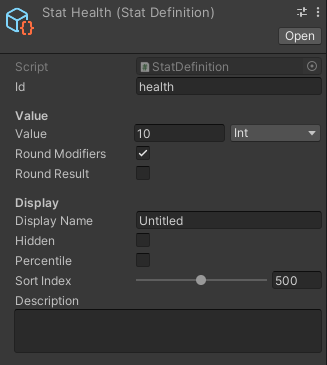
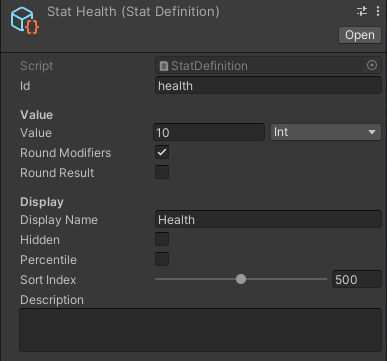
docs(readme): several tweaks and fixes based on running through the guides

diff --git a/README.md b/README.md
@@ -6,12 +6,12 @@ A Unity stats systems for JRPGs, action games, turn based, and any other genre y
 
 **Features**
 
-* Create all stats data with visual editors
+* Create and manage stats data with visual editors
 * Heavily optimized stat caching
 * Curve support to handle character level ups and upgrades
 * Quickly tweak and test stats adjustments in your games without additional programming (no more Excel Spreadsheets)
 * Implementation agnostic. Does not rely on MonoBehavior classes (implement however you want)
-* Bulk modify stats with stat modifiers. Visual objects that can be used for equipment, status effects, ect.* Combine stats definitions with groups. Players, enemies, and physical objects can all share health, defense, ect. But have their own unique stats
+* Bulk modify stats with stat modifiers. Visual objects that can be used for equipment, status effects, ect
 
 **Support**
 
@@ -21,7 +21,7 @@ See upcoming features and development progress on the [Trello Board](https://tre
 
 ## Quickstart
 
-You'll need to [install](#installation) the package first before you can run any of the following. That said here is a quick rundown of how Fluid Stats works. Please note all of the creation commands can be found by right clicking the project windows and going to Create -> Fluid -> Stats.
+You'll need to [install](#installation) the package first before you can run any of the following. That said here is a quick rundown of how Fluid Stats works. Please note all of the following creation commands can be found by right clicking the project windows and going to **"Create -> Fluid -> Stats"**.
 
 1. Create a settings object and place it in a "Resources" folder
 1. Generate as many definitions as you want
@@ -59,7 +59,28 @@ public class CharacterHealthStat : MonoBehaviour {
 }
 ```
 
-For a more in-depth explanation on Fluid Stats see the [guides](#getting-started-guides). They contain in-depth walkthroughs on creating a stats system from scratch.
+For a more in-depth explanation on Fluid Stats see the [guides](#getting-started-guides). They contain a complete walkthrough on creating your own stats from scratch with Fluid Stats.
+
+### Installation
+
+Fluid Stats is used through [Unity's Package Manager](https://docs.unity3d.com/Manual/CustomPackages.html). In order to use it you'll need to add the following lines to your `Packages/manifest.json` file. After that you'll be able to visually control what specific version of Fluid Stats you're using from the package manager window in Unity. This has to be done so your Unity editor can connect to NPM's package registry.
+
+```json
+{
+  "scopedRegistries": [
+    {
+      "name": "NPM",
+      "url": "https://registry.npmjs.org",
+      "scopes": [
+        "com.fluid"
+      ]
+    }
+  ],
+  "dependencies": {
+    "com.fluid.stats": "1.0.0"
+  }
+}
+```
 
 ## Table of Contents
 
@@ -73,7 +94,6 @@ For a more in-depth explanation on Fluid Stats see the [guides](#getting-started
     - [Event Subscriptions](#event-subscriptions)
     - [Adjusting Modifiers](#adjusting-modifiers)
     - [Order of Operations](#order-of-operations)
-    + [Installation](#installation)
 * [Releases](#releases)
 * [Nightly Builds](#nightly-builds)
 * [Development Environment](#development-environment)
@@ -84,33 +104,38 @@ For a more in-depth explanation on Fluid Stats see the [guides](#getting-started
 
 ### Your First Health Bar
 
-Let's create a health bar that will display a players total health. Then reduce it when a button is clicked. This will walk you through the core fundamental basics of how Fluid Stats works. When you're done you should be able to setup all of your stat buckets on your own.
+Let's create a health bar that will display a players total health. Then reduce it when a button is clicked. This will walk you through the core fundamentals of how Fluid Stats works. When you're done you should be able to setup your remaining stats on your own.
 
-Before we start, let's generate a settings object. This will prevent console errors and warnings.
+#### Initial Setup
 
-1. Right click on the project window and go to "Create -> Fluid -> Stats -> Settings"
+First off open up Unity and create a new project (2020 or newer recommended). Then run through the steps listed in the [installation](#installation). When you're done come back here.
+
+With the package installed you'll need a StatsSettings object. This will prevent console errors and warnings.
+
+1. Right click on the project window and go to "Create -> Fluid -> Stats -> Settings -> Default"
 1. Keep the name and place it inside a "Resources" folder. Example `Resources/StatsSettings`
 
-With settings taken care of we can now move onto stat definitions.
+With settings taken care of we can now move onto creating your definition for the health stat.
 
 #### Health Stat Definition
 
 To get started you need to create a health definition that details how the health stat works. Definitions contain value types (int, float, int curve, float curve), how to handle modifiers (such as rounding), and other details.
 
-Create your first definition. Then we'll adjust a few things to customize it.
+Create your first definition with the details below. Then we'll adjust a few things to customize it.
 
 1. Right click on the project window and go to "Create -> Fluid -> Stats -> Definitions -> Default"
 1. Rename the created object "StatHealth" in the project window
 1. Set an `id` of "health" so you can retrieve the value at runtime (more on that later)
-1. Change `value` to 10 which will alter the default value when this stat is initialized
+1. Change the `value` to 10, which will alter the default value when this stat is created
+1. Change the `displayName` to "Health"
 
 ![Health stat](documentation/health-stat-definition.png)
 
-With the definition complete you'll have to store it where it in a collection. We'll cover that in collections next.
+With the definition complete you'll have to store it in a definition collection. We'll cover collections next.
 
 #### Stat Collections
 
-You need a way to attach the new health definition to a character. That's where definition collections come in. Think of collections as buckets of stats that can be shared throughout your game. For example characters might have a large number of combat stats while a door might only have health.
+The health definition is useless unless we can attach it to a character. That's where definition collections come in. Think of collections as buckets of stats that can be shared throughout your game. For example characters might have a large number of combat stats while a door could just have health.
 
 To add the health definition to a collection you'll need to create one. Then add the new health stat to it.
 
@@ -124,9 +149,11 @@ Keep in mind you can add as many stats as you want here (such as defense, magic,
 
 #### Stats Containers
 
-With the collection you're going to need a way to compile it into usable runtime data. That's where the stats container comes in. Containers manage and house all your collections and handle runtime creation.
+Stat containers are where all the stats for a character are stored. They allow you to tweak various stats or revert to defaults. Most importantly they compile your definition collections and handle runtime creation.
 
-Make your character stats container with the following instructions. Then attach the previously created collection.
+Containers are a great way share stats among multiple characters. For example you could create a stats container just for goblins and share it among goblin instances. Since containers are a ScriptableObject they avoid many of the serialization issues that come with prefabs.
+
+Create your character stats container with the following instructions. Then attach the previously created collection.
 
 1. Right click on the project window and select "Create -> Fluid -> Stats -> Container"
 1. Rename the created object "SampleCharacterStats"
@@ -138,7 +165,7 @@ With the container taken care of let's head back to the settings file. It can ma
 
 #### Stats Settings File
 
-Remember that settings file we created at the beginning and placed in `Resources/StatsSettings`? It let's us override the order of operations and default stats shared among all containers. That in mind, we can move our default stats to the settings so all created characters automatically get a health stat. Personally I often use this to have special customized data for different NPCs and player characters.
+Remember that settings file we created at the beginning and placed in `Resources/StatsSettings`? It lets you override the stats shared among all containers. In short all stats added to the settings will appear on every character. Move your default stats to the settings so all created characters automatically get a health stat.
 
 Set the default stats to your "DefaultsStats" object and remove the old reference.
 
@@ -147,18 +174,21 @@ Set the default stats to your "DefaultsStats" object and remove the old referenc
 
 ![Stats Settings](documentation/stats-settings.png)
 
-With all your stats objects setup we can now move onto creating the health bar display.
+With all your stats setup we can now move onto creating the health bar display.
 
 #### The Health Bar
 
 To create a health bar you'll need a canvas with a slider and a script that updates the screen when health changes. First off create the canvas and slider UI elements.
 
 1. Create a new scene called "MyFirstHealthBar" and open it
+1. Switch to 2D mode (in the scene panel near the top left)
 1. Right click on the hierarchy window, then select "UI -> Canvas"
 1. Select the canvas in the hierarchy, then select "UI -> Slider" 
     1. Place the slider inside the canvas object
-    1. Set the slider to non interactive
+    1. Set the slider "interactable" checkbox to false
 1. Select the canvas again, then select "UI -> Button"
+    1. Place the button inside the canvas object
+    1. Align the button object so you can see it (might cover the slider)
     1. Change the button text to "Deal Damage"
     
 When all the steps are complete your scene should look something like this.
@@ -198,23 +228,23 @@ public class CharacterHealthStat : MonoBehaviour {
 }
 ```
 
-Lastly rig up the health bar to the new script. We're going to use the slider as a container for our health stats. Normally you'd want to store the health information in something like this [stats gauge microframework](https://github.com/ashblue/unity-gauges) that handles min and max values.
+Lastly rig up the health bar to the new script. We're going to use the slider as a container for our health stats. Please note, you'd want to store the health information in something like this [stats gauge microframework](https://github.com/ashblue/unity-gauges) that handles min and max values. But for now we're just going to use the slider for ease of this tutorial.
 
 1. Select the canvas object in the hierarchy
 1. Attach the `CharacterHealthStat` script
     1. Set the `buttonDealDamage` to the button you previously created
     1. Set the `healthBar` to the slider you previously created
-    1. Set the `originalStats` with "SampleCharacterStats" object. Do not add a `runtimeStats`, this field is automatically populated at runtime
+    1. Set the `originalStats` with "SampleCharacterStats" object. DO NOT add a `runtimeStats`, this field is automatically populated at runtime
 
-And that's it. Run the game and click the button to reduce the bar's fill by 1. If you're having trouble you can always clone this repo and open the example scene `MyFirstHealthBar.scene` to double check things.
+And that's it. Run the game and click the button to reduce the bar's fill by 1. If you're having trouble you can always clone this repo and open the example scene `MyFirstHealthBar.scene` to cross compare.
 
 ### Your First Equipment Item
 
-Since you've created a health bar let's create an equipment item that adjusts the total health with a gear piece. The "StatsAdjustment" object allows you to declare stats for modification with an operator (plus, minus, multiply, divide). These bundles can be bulk applied and removed by calling a simple method.
+Building on the previous guide, let's create an equipment item that adjusts the total health with a gear piece. The "StatsAdjustment" object allows you to declare stats for modification with an operator (plus, minus, multiply, divide). These bundles can be bulk applied and removed by calling a simple method.
 
 #### Creating The Item
 
-For the first item you'll need to create a StatsAdjustment object. Then assign it an ID and value to modify the health stat.
+For the item you'll need to create a `StatsAdjustment` object. Then assign it an ID and value to modify the health stat.
 
 1. Right click on the project window and select "Create -> Fluid -> Stats -> Adjustment"
    1. Rename the created object "StatsAdjustmentChainmail"
@@ -229,7 +259,7 @@ Now that you have a StatsAdjustment object it has to be applied to a runtime con
 
 #### Equipping The Item
 
-To equip the chainmail stats modifier, you'll need to modify the `CharacterHealthStat.cs` script slightly. Add a field for the StatsAdjustment called `armor` and call `armor.ApplyAdjustment(runtimeStats)`. Place this logic in the `Start` method.
+To equip the chainmail, you'll need to modify the `CharacterHealthStat.cs` script slightly. Add a field for the StatsAdjustment called `armor` and call `armor.ApplyAdjustment(runtimeStats)`. Place this logic in the `Start` method.
 
 ```c#
 using CleverCrow.Fluid.StatsSystem;
@@ -262,21 +292,21 @@ Add the chainmail to the `armor` field on the `Canvas` object. Then click the ga
 
 ![Modified Character Health Stat](documentation/modified-character-health-stat.png)
 
-Next we'll cover the stats debugger so you can see how the stats are being calculated and displayed.
+Next we'll cover the stats debugger so you can see how the stats are being calculated for your chainmail.
 
 #### Stats Debugger
 
-To see the equipped stats double click the `runtimeStats` field on the Canvas object's `CharacterHealthStat` script. This will give you a drill down of all modifiers and how they affect each stat. Note that if you did not include an ID on the modifier this would be a randomized unique ID for the name instead of `chainmail`.
+To see the equipped stats double click the `runtimeStats` field on the Canvas object's `CharacterHealthStat` script while the game is running. This will give you a drill down of all modifiers and how they affect each stat. Note that if you did not include an ID on the modifier this would be a randomized unique ID for the name instead of `chainmail`.
 
 ![Stats Debugger](documentation/stats-debugger.png)
 
-It's important to note that all stats displayed are cached based on the last retrieved value. Complex calculations are run under the hood every time modifiers are applied or adjusted.
+All displayed stats are cached based on the last retrieved value. Complex calculations are run under the hood every time modifiers are applied or adjusted.
 
-That's it, you've covered all the basics. For more in-depth details on how to use this system see the [examples](#examples) or [recipes](#recipes) section.
+That's it, you've covered all the basics. For more in-depth details on how to use Fluid Stats see the [examples](#examples) or [recipes](#recipes) section.
 
 ### Examples
 
-The following example projects are available that demonstrate advanced usage with stats and adjustments.
+The following example projects are available to demonstrate advanced usage in a project.
 
 * [Combat Example](Assets/Examples/CombatExample)
 * [Inventory Equipment Example](Assets/Examples/InventoryEquipmentExample)
@@ -295,7 +325,7 @@ var health = runtimeStats.GetStatInt("health", 10);
 
 #### Printing Stats
 
-In some cases you may need to print out all the available stats of a `StatsContainer`. In order to loop over them for printing you can do the following.
+If you need to print all available stats from a `StatsContainer` you can loop over the records. In order to loop over them for printing do the following.
 
 ```c#
 var runtimeStats = originalStats.CreateRuntimeCopy();
@@ -310,7 +340,7 @@ statsAdjustment.records.records.ForEach(record => Debug.Log(record));
 
 #### Event Subscriptions
 
-You can subscribe and unsubscribe to value change events on specific stats. This is very useful so you don't have to poll your stats for changes every frame.
+You can subscribe and unsubscribe to value change events on specific stats. This is very useful to avoid polling your stats for changes every frame.
 
 ```c#
 var runtimeStats = originalStats.CreateRuntimeCopy();
@@ -325,7 +355,7 @@ runtimeStats.OnStatChangeUnsubscribe("health", callback);
 
 #### Adjusting Modifiers
 
-Modifiers for stats can be applied with a StatsAdjustment ScriptableObject. It's important to note that they can also just be as easily wiped with a simple command.
+Modifiers for stats can be applied with a StatsAdjustment's `ApplyAdjustment` method. They can also just be wiped with `RemoveAdjustment`.
 
 ```c#
 var runtimeStats = originalStats.CreateRuntimeCopy();
@@ -337,7 +367,7 @@ statsAdjustment.ApplyAdjustment(runtimeStats);
 statsAdjustment.RemoveAdjustment(runtimeStats);
 ```
 
-Adjustment stat modifiers can also be applied and remove individually as so.
+Adjustment stat modifiers can also be applied and removed individually as so.
 
 ```c#
 var runtimeStats = originalStats.CreateRuntimeCopy();
@@ -355,30 +385,9 @@ runtimeStats.ClearAllModifiers("health");
 
 #### Order of Operations
 
-If you wish to override the order of operations you can create your own. Right click on the project window and go to "Create -> Fluid -> Stats -> Settings -> Order Of Operations". Note that the OrderOfOperations object must be placed in the StatsSettings in Resources to work.
+If you wish to override the order of operations you can create your own. Right click on the project window and go to "Create -> Fluid -> Stats -> Settings -> Order Of Operations".  The OrderOfOperations object must be set in the StatsSettings.orderOfOperations field in the Resources folder to work.
 
 ![order of operations](documentation/order-of-operations.png)
-
-### Installation
-
-Fluid Stats is used through [Unity's Package Manager](https://docs.unity3d.com/Manual/CustomPackages.html). In order to use it you'll need to add the following lines to your `Packages/manifest.json` file. After that you'll be able to visually control what specific version of Fluid Stats you're using from the package manager window in Unity. This has to be done so your Unity editor can connect to NPM's package registry.
-
-```json
-{
-  "scopedRegistries": [
-    {
-      "name": "NPM",
-      "url": "https://registry.npmjs.org",
-      "scopes": [
-        "com.fluid"
-      ]
-    }
-  ],
-  "dependencies": {
-    "com.fluid.stats": "1.0.0"
-  }
-}
-```
 
 ## Releases
 
